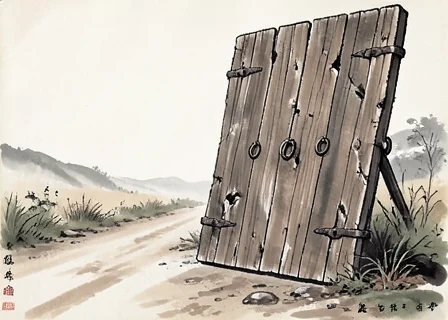
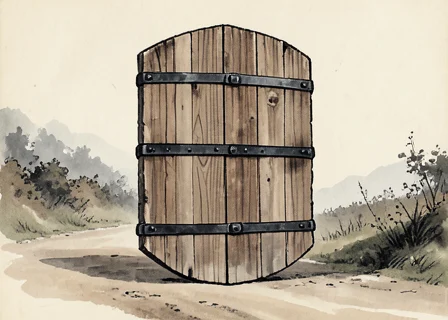
lingjing cards: four pictures repainted, best of three seeds each — 熊崽 without the fake calligraphy, 木草泥马 a carved wooden toy (wood grain, on its base), 伏狸 a lean striped wildcat crouched to pounce, 铁箍板 with its three iron hoops plain

diff --git a/lingjing/tools/paint-cards.py b/lingjing/tools/paint-cards.py
@@ -78,17 +78,17 @@ SUBJECTS = {
   # ── 狼's own card (2026-10-27): it left 金刚, a man in armour; now the lead wolf of the pack ──
   'toulang': 'a big grey lead wolf standing square in front of its pack on a dark pine ridge, head low, hackles up, green eyes, other wolves half hidden behind it',
   # ── the beasts' own cards (2026-10-27: each beast leaves a card of itself, not a stranger's) ──
-  'xiongzai': 'a black bear cub standing up on its hind legs copying its mother, small paws raised, in autumn grass by a pine',
+  'xiongzai': 'a black bear cub standing up on its hind legs copying its mother, small paws raised, in autumn grass by a pine, no calligraphy, no writing, no characters, no seal',
   'houer': 'a young macaque leaping down from a pine branch, mouth open calling, its troop shadowy in the trees behind',
-  'fuli': 'a wild mountain cat crouched flat in tall grass at night, ears back, perfectly still, only its eyes catching the moonlight',
+  'fuli': 'a lean wild mountain cat with bold dark stripes and tufted ears, crouched low in tall grass ready to pounce, fierce wild eyes, not a house cat',
   'xiaochihu': 'a small red fox running off with a stolen rice cake in its mouth, tail streaming, glancing back over its shoulder',
   'huoshe': 'a snake made of living flame uncoiling out of the mouth of a red copper gourd, sparks drifting in the air',
   'huilang': 'a lean grey wolf loping through pine shadow, head low, more wolves half seen behind it',
   'elang': 'a starving grey wolf lunging forward with bared fangs, ribs showing under its coat, snow on the ground',
   # ── cards that wore another card's picture until 2026-10-27 ──
-  'mucao': 'a small carved wooden toy animal with a long neck, small head and curly wool, half sheep half camel, dull round eyes, butting forward, a puff of firecracker smoke from its belly',
+  'mucao': 'a carved wooden toy figurine on a small wooden base, a little beast between a sheep and a camel with a long neck and small head, made entirely of brown carved wood with visible wood grain lines, chisel marks and wooden joints at the legs, painted dot eyes, a puff of firecracker smoke from its belly, not woolly, no fur, not a real animal',
   'shangen': 'a thick wooden stake driven deep into rocky ground, rough bark, a faded cloth charm tied round it, braced like a mountain',
-  'tiegu': 'a heavy wooden door plank bound with three iron hoops, dented and scratched, propped upright like a shield on a dirt road',
+  'tiegu': 'a heavy wooden door plank bound with three thick black iron hoops wrapped clearly across it from edge to edge, iron bands prominent, propped upright like a shield on a dirt road',
   'tuqiang': 'a low wall of packed earth heaving up out of the ground, clods and pebbles tumbling from its top',
   'waiyi': 'a worn patched coat laid gently over a small shape at the bottom of a shallow pit, patches sewn on patches at the cuffs',
   'feijian': 'a small willow-leaf shaped flying sword a hand-span long, a red thread tied at its hilt, darting through the air',
